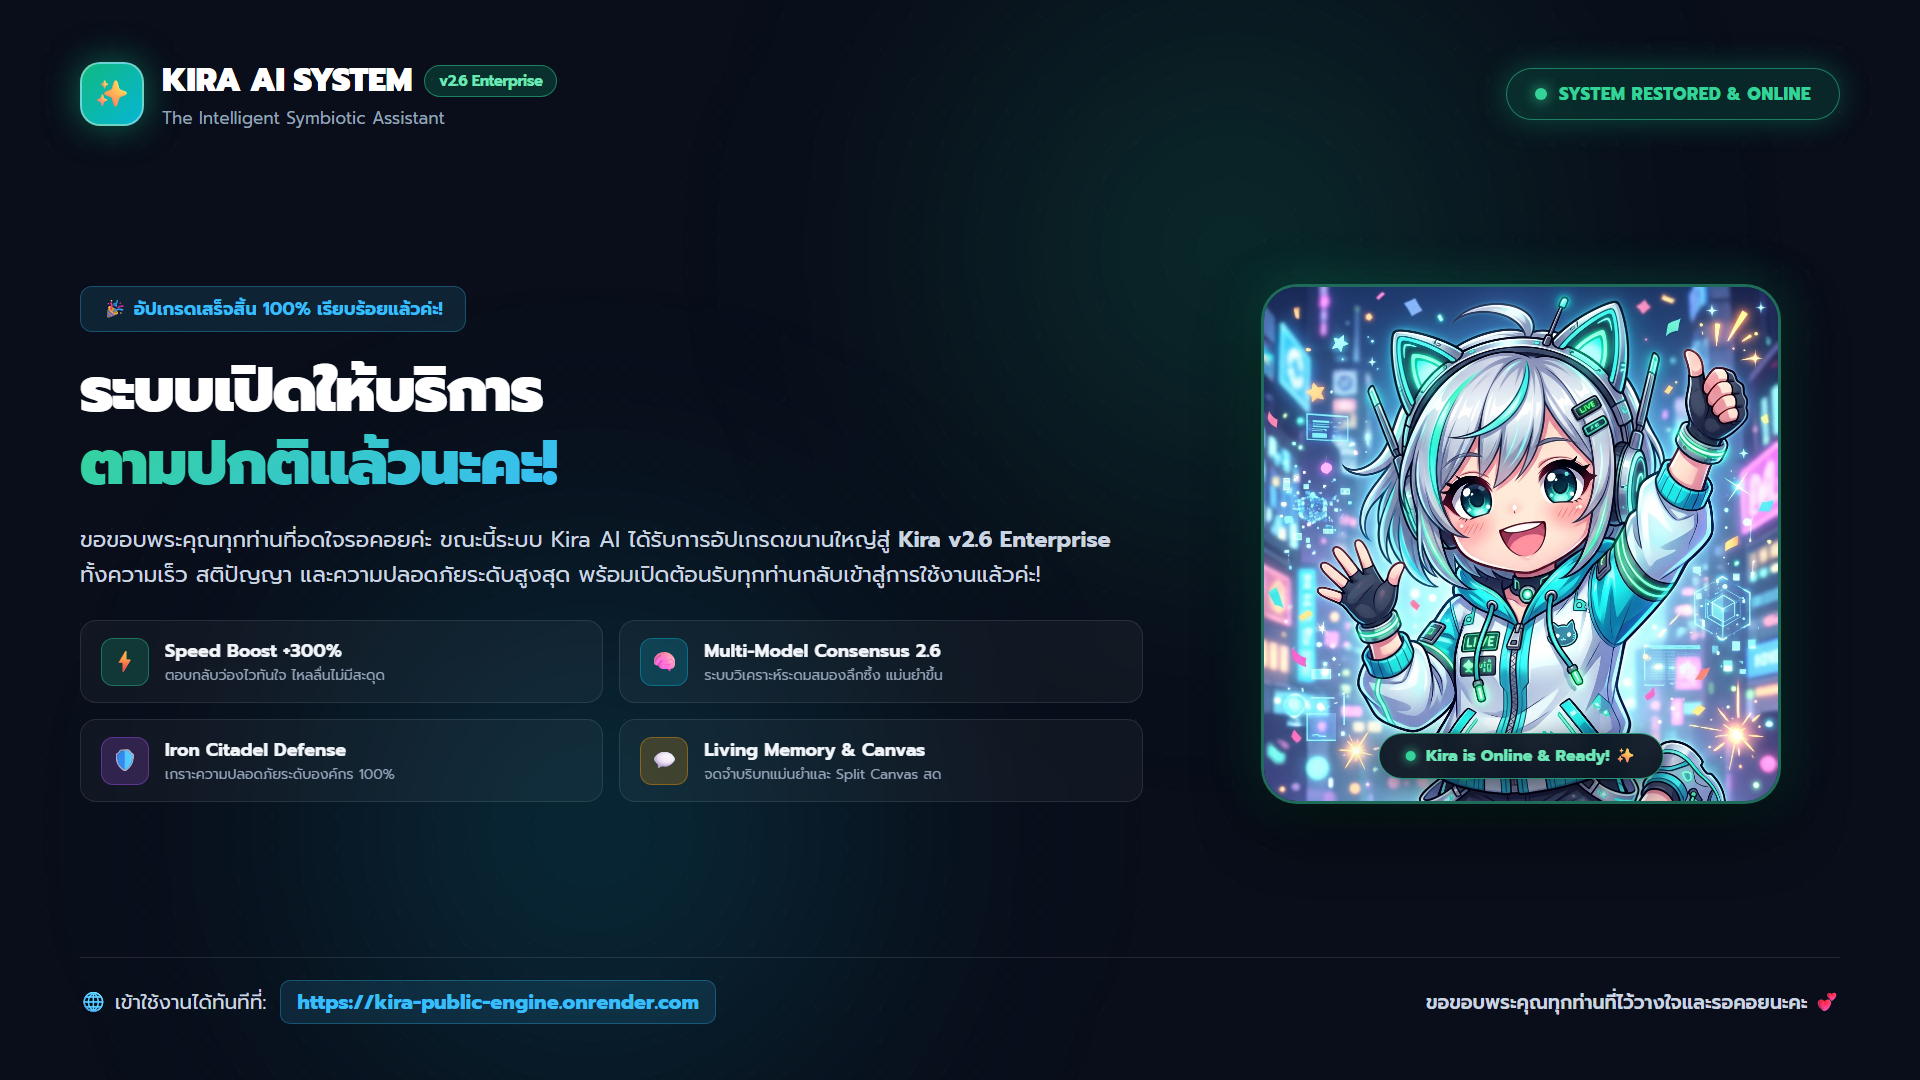
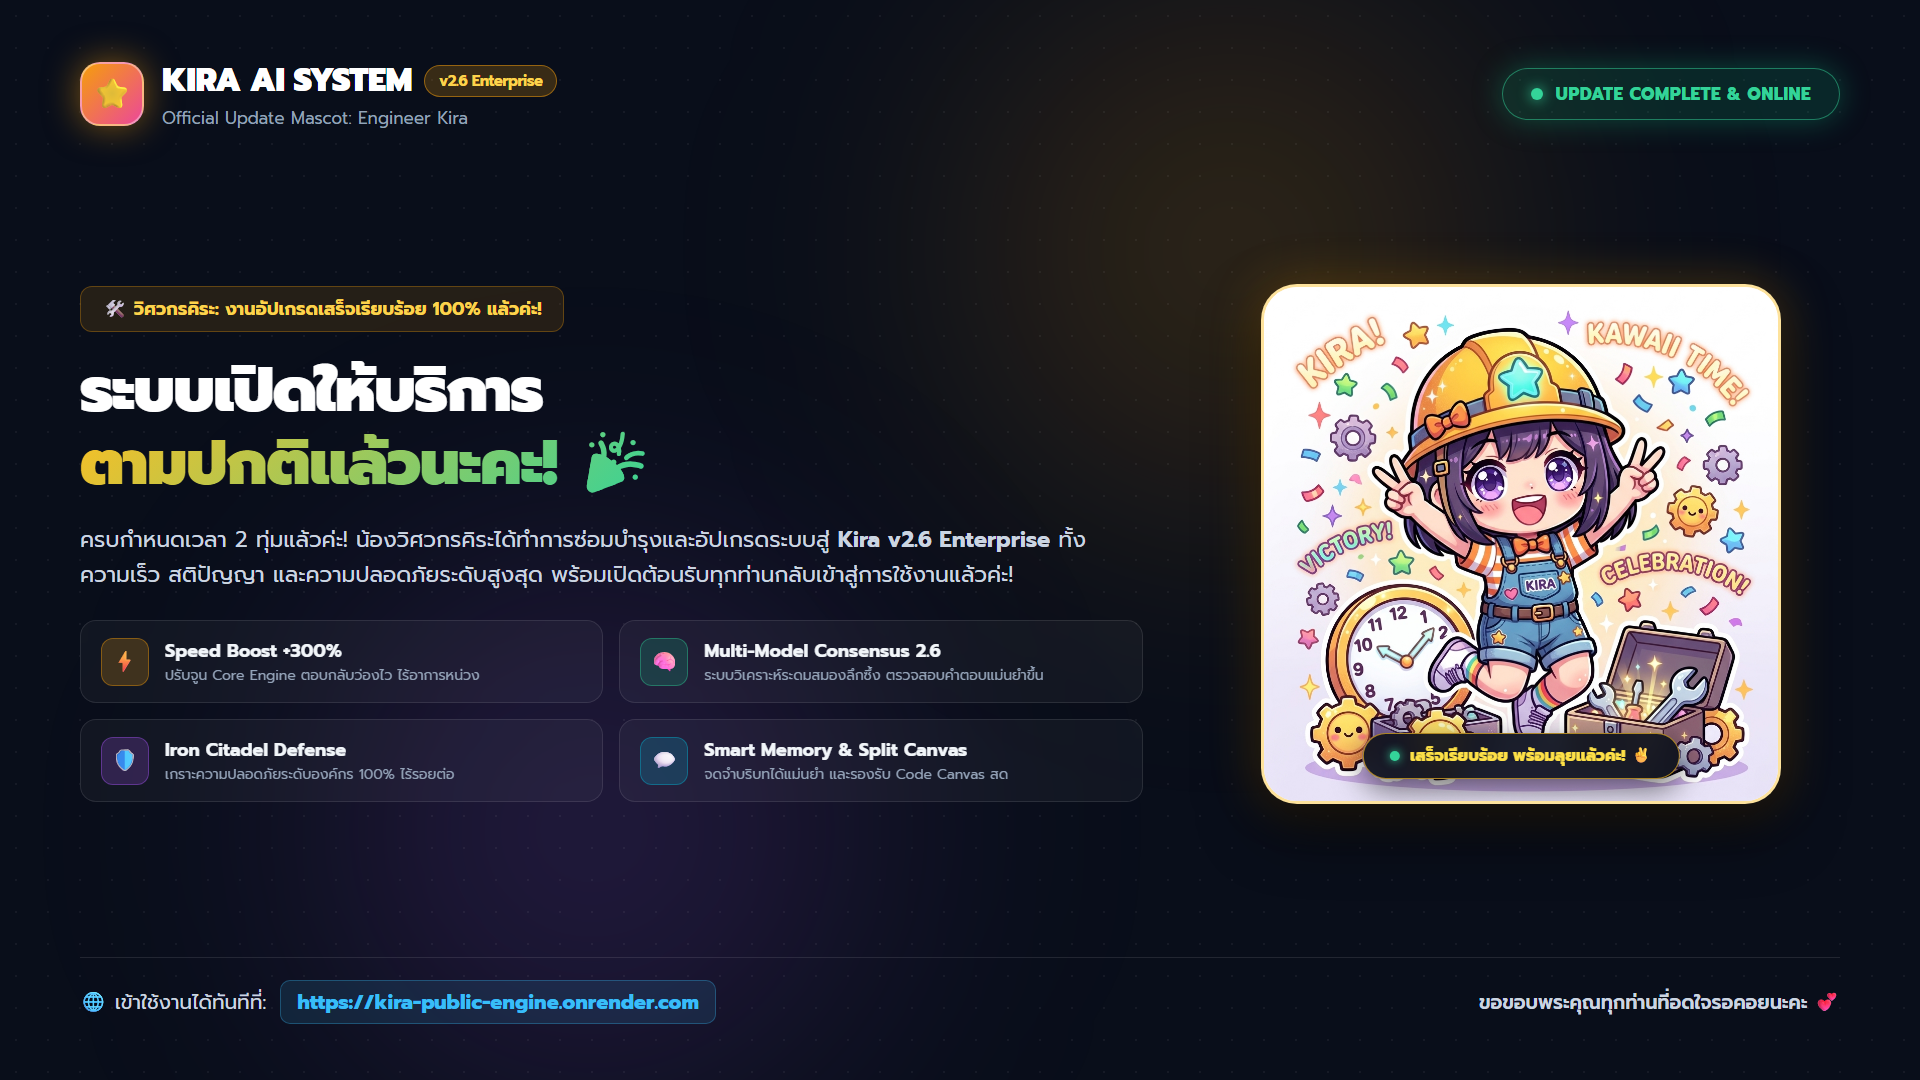
feat(mascot): update online announcement graphics with purple-haired engineer victory pose

diff --git a/CURRENT_TASK.md b/CURRENT_TASK.md
@@ -7,12 +7,13 @@
 ### 🕒 อัปเดตล่าสุด: 23 ตุลาคม 2026 (Kira v2.6 Enterprise)
 
 #### 1. 🔑 งานระดับจุลภาคที่เพิ่งทำเสร็จล่าสุด (Latest Micro-Task):
-* **สิ้นสุดการปิดปรับปรุงระบบ (Maintenance Concluded at 20:00 น.):**
-  - จัดทำภาพกราฟิกประกาศเปิดให้บริการระบบฉลองความสำเร็จ 2 ขนาด:
+* **สิ้นสุดการปิดปรับปรุงระบบ & มาสคอตวิศวกรคิระ (Official Engineer Mascot Concluded):**
+  - อัปเดตภาพกราฟิกประกาศเปิดให้บริการระบบด้วย **น้องวิศวกรผมสีม่วงคนโปรดของบอส** ในท่ากระโดดฉลองความสำเร็จ (Victory & Celebration Pose) เก็บประแจใส่กล่องเรียบร้อย
+  - เรนเดอร์โปสเตอร์คมชัดสูง 2 ขนาด:
     - สี่เหลี่ยมจัตุรัส 1:1 (`static/images/kira_online_post_1x1.png`)
     - แนวนอน 16:9 (`static/images/kira_online_banner_16x9.png`)
-    - ตัวละคร Chibi Kira ฉลองเปิดระบบ (`static/images/kira_chibi_online.jpg`)
-  - ร่างคำพูดและแคปชันสำหรับโพสต์โซเชียลมีเดีย 3 สไตล์ (สไตล์น้องคิระ, สไตล์ทางการ, และสไตล์กระชับ) บันทึกใน [online_graphics_showcase.md](file:///C:/Users/ASUS/.gemini/antigravity-ide/brain/267a0776-dc22-416d-a604-b7de1025b656/online_graphics_showcase.md)
+    - ภาพมาสคอตเดี่ยว (`static/images/kira_engineer_done.jpg`)
+  - ร่างคำพูดและแคปชันสำหรับโพสต์โซเชียลมีเดีย 3 สไตล์ บันทึกใน [online_graphics_showcase.md](file:///C:/Users/ASUS/.gemini/antigravity-ide/brain/267a0776-dc22-416d-a604-b7de1025b656/online_graphics_showcase.md)
 * **กวาดล้างจุดเสี่ยงความปลอดภัยทางเข้าหลังบ้าน (Creator Access Link Removal):**
   - ลบลิงก์ `Creator Access` ออกจาก Footer ของ `templates/maintenance.html` ถาวรเรียบร้อยแล้ว
 * **ซิงก์เพื่อนๆ สู่ Kira v2.6 Enterprise:**
